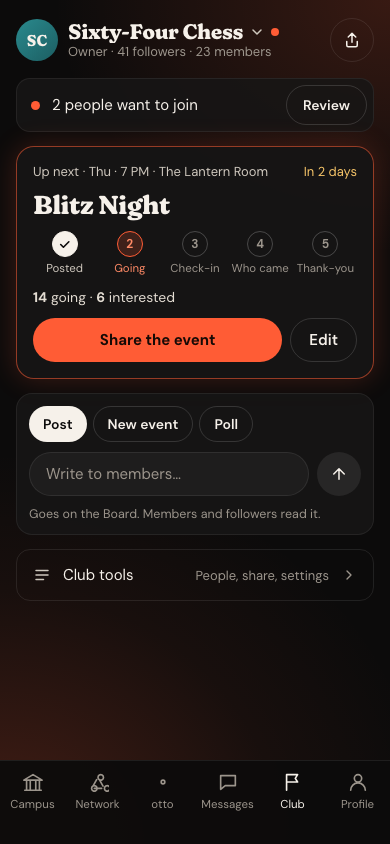
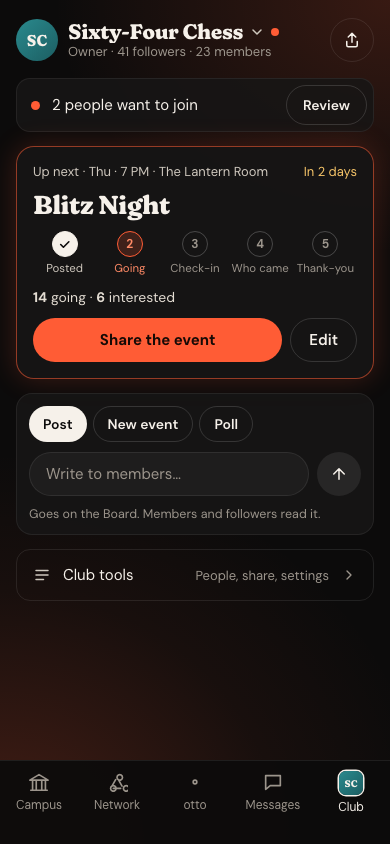
docs(handoff): club view round 2, no sixth tab, switch to your club on the Profile tab (Oct 20)
Franky: a Club tab crowds the phone's tab bar. The phone now switches to a
club from the Profile tab (tap your name or hold the tab), Instagram-style;
a row in Messages and a card on the profile are drawn for comparison.

diff --git a/handoffs/2026-10-20-club-view/project/R2_Entry_Others.dc.html b/handoffs/2026-10-20-club-view/project/R2_Entry_Others.dc.html
@@ -1,0 +1,97 @@
+<!doctype html>
+<html lang="en">
+<head>
+<meta charset="utf-8">
+<title>Round 2 · Two other ways in · phone</title>
+<script src="./support.js"></script>
+</head>
+<body>
+<x-dc>
+<helmet>
+<link rel="stylesheet" href="https://fonts.googleapis.com/css2?family=DM+Sans:ital,wght@0,300..800;1,400&amp;family=Fraunces:ital,wght,SOFT@0,400..900,100;1,400,100&amp;display=swap">
+<style>
+*,*::before,*::after{box-sizing:border-box;margin:0;padding:0}
+body{margin:0;font-family:"DM Sans",system-ui,sans-serif;-webkit-font-smoothing:antialiased;background:#0C0B0B}
+a{color:inherit;text-decoration:none}
+a:hover{color:inherit}
+svg{display:block}
+</style>
+</helmet>
+<div style="width: 960px; height: 1080px; position: relative; isolation: isolate; overflow: hidden; background: #0C0B0B; color: #F6F1EA; font-family: 'DM Sans', system-ui, sans-serif; padding: 56px; display: flex; flex-direction: column; gap: 28px">
+  <div aria-hidden="true" style="position: absolute; inset: 0; z-index: -1; pointer-events: none; background: radial-gradient(560px 420px at 100% 0%, rgba(255,92,53,0.14), transparent 60%)"></div>
+  <header style="display: flex; flex-direction: column; gap: 8px">
+    <div style="font-size: 12px; letter-spacing: 0.14em; text-transform: uppercase; color: #CFC8BE"><span style="color: #FF5C35">●</span> For comparison, not my pick</div>
+    <h1 style="font-family: Fraunces, serif; font-weight: 800; font-size: 40px; letter-spacing: -0.03em; line-height: 1.05">Two other ways in.</h1>
+  </header>
+
+  <div style="display: grid; grid-template-columns: repeat(2, minmax(0, 1fr)); gap: 48px; align-items: start">
+    <section style="display: flex; flex-direction: column; gap: 14px">
+      <h2 style="font-family: Fraunces, serif; font-weight: 800; font-size: 22px; letter-spacing: -0.02em">A row at the top of Messages</h2>
+      <div style="height: 700px; border-radius: 30px; border: 1px solid rgba(255,255,255,0.12); overflow: hidden; display: flex; flex-direction: column; background: #0C0B0B">
+        <div style="padding: 20px 16px 12px; display: flex; flex-direction: column; gap: 12px; flex: 1">
+          <div style="font-family: Fraunces, serif; font-weight: 800; font-size: 26px; letter-spacing: -0.02em">Messages</div>
+          <a href="#" style="min-height: 64px; border-radius: 16px; background: rgba(22,21,21,0.9); border: 1px solid rgba(255,92,53,0.45); padding: 10px 12px; display: flex; align-items: center; gap: 12px">
+            <span aria-hidden="true" style="width: 40px; height: 40px; border-radius: 10px; background: linear-gradient(135deg, #2A8A8E, #1C5E62); display: flex; align-items: center; justify-content: center; font-family: Fraunces, serif; font-weight: 800; font-size: 14px; flex-shrink: 0">SC</span>
+            <span style="flex: 1; display: flex; flex-direction: column"><span style="font-weight: 700; font-size: 15px">Run Sixty-Four Chess</span><span style="font-size: 13px; color: #FF8A66">2 want to join</span></span>
+            <svg width="16" height="16" viewBox="0 0 24 24" fill="none" stroke="#9C958C" stroke-width="2" stroke-linecap="round" stroke-linejoin="round" aria-hidden="true"><path d="M9 6l6 6-6 6"></path></svg>
+          </a>
+          <sc-for list="{{chats}}" as="c" hint-placeholder-count="5">
+            <div style="min-height: 60px; display: flex; align-items: center; gap: 12px; border-bottom: 1px solid rgba(255,255,255,0.06)">
+              <span aria-hidden="true" style="width: 44px; height: 44px; border-radius: 999px; background: {{c.color}}; display: flex; align-items: center; justify-content: center; font-family: Fraunces, serif; font-weight: 800; font-size: 14px; flex-shrink: 0">{{c.i}}</span>
+              <span style="flex: 1; min-width: 0; display: flex; flex-direction: column"><span style="font-weight: 600; font-size: 15px">{{c.name}}</span><span style="font-size: 13px; color: #9C958C; white-space: nowrap; overflow: hidden; text-overflow: ellipsis">{{c.last}}</span></span>
+            </div>
+          </sc-for>
+        </div>
+        <div aria-hidden="true" style="height: 64px; border-top: 1px solid rgba(255,255,255,0.08); display: grid; grid-template-columns: repeat(5, minmax(0, 1fr)); align-items: center; text-align: center; font-size: 11.5px; color: #9C958C">
+          <span>Campus</span><span>Network</span><span>otto</span><span style="color: #F6F1EA">Messages</span><span>Profile</span>
+        </div>
+      </div>
+      <p style="font-size: 15px; line-height: 1.5; color: #E4DDD3"><strong style="color: #6FDB9A">Good:</strong> officers are in Messages every day, and it’s one tap.</p>
+      <p style="font-size: 15px; line-height: 1.5; color: #E4DDD3"><strong style="color: #FF8A66">Costs:</strong> Messages gets busier, chats and tools mix, and two or three clubs mean two or three rows above your chats.</p>
+    </section>
+
+    <section style="display: flex; flex-direction: column; gap: 14px">
+      <h2 style="font-family: Fraunces, serif; font-weight: 800; font-size: 22px; letter-spacing: -0.02em">A card on your profile</h2>
+      <div style="height: 700px; border-radius: 30px; border: 1px solid rgba(255,255,255,0.12); overflow: hidden; display: flex; flex-direction: column; background: #0C0B0B">
+        <div style="height: 130px; background: linear-gradient(160deg, #6B5A4A 0%, #3A3029 55%, #1E1A17 100%); position: relative; flex-shrink: 0">
+          <span aria-hidden="true" style="position: absolute; left: 16px; bottom: -36px; width: 76px; height: 76px; border-radius: 20px; background: #E8B26A; border: 4px solid #0C0B0B; display: flex; align-items: center; justify-content: center; font-family: Fraunces, serif; font-weight: 900; font-size: 28px; color: #0C0B0B">PR</span>
+        </div>
+        <div style="padding: 48px 16px 12px; display: flex; flex-direction: column; gap: 12px; flex: 1">
+          <div style="font-family: Fraunces, serif; font-weight: 800; font-size: 26px; letter-spacing: -0.02em">Priya Raman</div>
+          <a href="#" style="min-height: 64px; border-radius: 16px; background: rgba(22,21,21,0.9); border: 1px solid rgba(255,92,53,0.45); padding: 10px 12px; display: flex; align-items: center; gap: 12px">
+            <span aria-hidden="true" style="width: 40px; height: 40px; border-radius: 10px; background: linear-gradient(135deg, #2A8A8E, #1C5E62); display: flex; align-items: center; justify-content: center; font-family: Fraunces, serif; font-weight: 800; font-size: 14px; flex-shrink: 0">SC</span>
+            <span style="flex: 1; display: flex; flex-direction: column"><span style="font-weight: 700; font-size: 15px">Run Sixty-Four Chess</span><span style="font-size: 13px; color: #FF8A66">2 want to join</span></span>
+            <svg width="16" height="16" viewBox="0 0 24 24" fill="none" stroke="#9C958C" stroke-width="2" stroke-linecap="round" stroke-linejoin="round" aria-hidden="true"><path d="M9 6l6 6-6 6"></path></svg>
+          </a>
+          <div style="border-radius: 16px; background: rgba(22,21,21,0.86); border: 1px solid rgba(255,255,255,0.07); padding: 14px 16px; display: flex; flex-direction: column; gap: 6px">
+            <div style="font-family: Fraunces, serif; font-weight: 800; font-size: 17px">Bio</div>
+            <div style="font-size: 15px; color: #E4DDD3">Chess, coffee, too many tabs open.</div>
+          </div>
+        </div>
+        <div aria-hidden="true" style="height: 64px; border-top: 1px solid rgba(255,255,255,0.08); display: grid; grid-template-columns: repeat(5, minmax(0, 1fr)); align-items: center; text-align: center; font-size: 11.5px; color: #9C958C">
+          <span>Campus</span><span>Network</span><span>otto</span><span>Messages</span><span style="color: #F6F1EA">Profile</span>
+        </div>
+      </div>
+      <p style="font-size: 15px; line-height: 1.5; color: #E4DDD3"><strong style="color: #6FDB9A">Good:</strong> the smallest build; it works the way Admin is reached today.</p>
+      <p style="font-size: 15px; line-height: 1.5; color: #E4DDD3"><strong style="color: #FF8A66">Costs:</strong> always two taps, even at the door on event night, and the club never feels like its own place.</p>
+    </section>
+  </div>
+</div>
+</x-dc>
+<script type="text/x-dc" data-dc-script data-props='{"$preview":{"width":960,"height":1080}}'>
+class Component extends DCLogic {
+  renderVals() {
+    return {
+      chats: [
+        { i: 'SC', name: 'Sixty-Four Chess', last: 'Theo: voted blitz, the clock stops me overthinking', color: 'linear-gradient(135deg, #2A8A8E, #1C5E62)' },
+        { i: 'MO', name: 'Maya Okafor', last: 'see you thursday', color: '#5A3A2E' },
+        { i: 'QH', name: 'Quiet Hours', last: 'Board: study room is booked till 2', color: 'linear-gradient(135deg, #3E6FA8, #26476E)' },
+        { i: 'LF', name: 'Leo Fischer', last: 'haha fair', color: '#4A4636' },
+        { i: 'EC', name: 'Elena Cruz', last: 'sent a photo', color: '#3B3550' }
+      ]
+    };
+  }
+}
+</script>
+</body>
+</html>

diff --git a/handoffs/2026-10-20-club-view/project/R2_Profile_Phone.dc.html b/handoffs/2026-10-20-club-view/project/R2_Profile_Phone.dc.html
@@ -1,0 +1,86 @@
+<!doctype html>
+<html lang="en">
+<head>
+<meta charset="utf-8">
+<title>Round 2 · Your profile, the way in · phone</title>
+<script src="./support.js"></script>
+</head>
+<body>
+<x-dc>
+<helmet>
+<link rel="stylesheet" href="https://fonts.googleapis.com/css2?family=DM+Sans:ital,wght@0,300..800;1,400&amp;family=Fraunces:ital,wght,SOFT@0,400..900,100;1,400,100&amp;display=swap">
+<style>
+*,*::before,*::after{box-sizing:border-box;margin:0;padding:0}
+body{margin:0;font-family:"DM Sans",system-ui,sans-serif;-webkit-font-smoothing:antialiased;background:#0C0B0B}
+button{font:inherit;color:inherit;background:transparent;border:0;cursor:pointer}
+a{color:inherit;text-decoration:none}
+a:hover{color:inherit}
+svg{display:block}
+</style>
+</helmet>
+<div style="width: 390px; height: 844px; position: relative; isolation: isolate; overflow: hidden; display: flex; flex-direction: column; background: #0C0B0B; color: #F6F1EA; font-family: 'DM Sans', system-ui, sans-serif">
+  <div style="position: relative; height: 170px; flex-shrink: 0; background: linear-gradient(160deg, #6B5A4A 0%, #3A3029 55%, #1E1A17 100%)">
+    <div style="position: absolute; right: 14px; top: 14px; display: flex; gap: 8px">
+      <button type="button" aria-label="Search" style="width: 44px; height: 44px; border-radius: 999px; background: rgba(12,11,11,0.45); display: flex; align-items: center; justify-content: center"><svg width="18" height="18" viewBox="0 0 24 24" fill="none" stroke="currentColor" stroke-width="2" stroke-linecap="round" aria-hidden="true"><circle cx="11" cy="11" r="6.5"></circle><path d="M16 16l4.5 4.5"></path></svg></button>
+      <button type="button" aria-label="Edit profile" style="width: 44px; height: 44px; border-radius: 999px; background: rgba(12,11,11,0.45); display: flex; align-items: center; justify-content: center"><svg width="17" height="17" viewBox="0 0 24 24" fill="none" stroke="currentColor" stroke-width="2" stroke-linecap="round" stroke-linejoin="round" aria-hidden="true"><path d="M4 20h4L19 9l-4-4L4 16v4z"></path></svg></button>
+    </div>
+    <div aria-hidden="true" style="position: absolute; left: 16px; bottom: -42px; width: 92px; height: 92px; border-radius: 24px; background: #E8B26A; border: 4px solid #0C0B0B; display: flex; align-items: center; justify-content: center; font-family: Fraunces, serif; font-weight: 900; font-size: 34px; color: #0C0B0B">PR</div>
+  </div>
+
+  <main style="flex: 1; display: flex; flex-direction: column; gap: 14px; padding: 54px 16px 0">
+    <div style="display: flex; flex-direction: column; gap: 4px; position: relative">
+      <button type="button" aria-haspopup="dialog" aria-label="Switch to one of your clubs" style="align-self: flex-start; min-height: 44px; display: flex; align-items: center; gap: 8px">
+        <span style="font-family: Fraunces, serif; font-weight: 800; font-size: 30px; letter-spacing: -0.03em; line-height: 1.05">Priya Raman</span>
+        <svg width="20" height="20" viewBox="0 0 24 24" fill="none" stroke="#CFC8BE" stroke-width="2.2" stroke-linecap="round" stroke-linejoin="round" aria-hidden="true"><path d="M6 9l6 6 6-6"></path></svg>
+        <span aria-hidden="true" style="width: 9px; height: 9px; border-radius: 999px; background: #FF5C35"></span>
+      </button>
+      <div style="font-size: 15px; color: #9C958C">@priya</div>
+    </div>
+
+    <div role="note" style="position: relative; align-self: flex-start; max-width: 300px; border-radius: 14px; background: #F6F1EA; color: #0C0B0B; padding: 12px 14px; display: flex; flex-direction: column; gap: 4px; box-shadow: 0 12px 30px rgba(0,0,0,0.45)">
+      <div aria-hidden="true" style="position: absolute; left: 28px; top: -7px; width: 14px; height: 14px; background: #F6F1EA; transform: rotate(45deg)"></div>
+      <div style="font-weight: 700; font-size: 14.5px">New: run your club from here.</div>
+      <div style="font-size: 13.5px; line-height: 1.4; color: #3A3632">Tap your name to switch to Sixty-Four Chess. Shown once.</div>
+    </div>
+
+    <div style="display: flex; gap: 8px; flex-wrap: wrap">
+      <span style="height: 36px; padding: 0 12px 0 6px; border-radius: 999px; border: 1px solid rgba(255,255,255,0.12); display: flex; align-items: center; gap: 8px; font-size: 14px"><span aria-hidden="true" style="width: 24px; height: 24px; border-radius: 999px; background: linear-gradient(135deg, #2A8A8E, #1C5E62); display: flex; align-items: center; justify-content: center; font-family: Fraunces, serif; font-weight: 800; font-size: 9.5px">SC</span>President · Sixty-Four Chess</span>
+      <span style="height: 36px; padding: 0 12px 0 6px; border-radius: 999px; border: 1px solid rgba(255,255,255,0.12); display: flex; align-items: center; gap: 8px; font-size: 14px"><span aria-hidden="true" style="width: 24px; height: 24px; border-radius: 999px; background: linear-gradient(135deg, #3E6FA8, #26476E); display: flex; align-items: center; justify-content: center; font-family: Fraunces, serif; font-weight: 800; font-size: 9.5px">QH</span>Quiet Hours</span>
+    </div>
+
+    <div style="border-radius: 16px; background: rgba(22,21,21,0.86); border: 1px solid rgba(255,255,255,0.07); padding: 14px 16px; display: flex; flex-direction: column; gap: 6px">
+      <div style="font-family: Fraunces, serif; font-weight: 800; font-size: 17px">Bio</div>
+      <div style="font-size: 15px; line-height: 1.45; color: #E4DDD3">Chess, coffee, too many tabs open.</div>
+    </div>
+  </main>
+
+  <nav aria-label="Tabs" style="flex-shrink: 0; height: 84px; border-top: 1px solid rgba(255,255,255,0.08); background: rgba(12,11,11,0.96); display: grid; grid-template-columns: repeat(5, minmax(0, 1fr)); padding-top: 10px">
+    <sc-for list="{{tabs}}" as="t" hint-placeholder-count="4">
+      <a href="#" style="display: flex; flex-direction: column; align-items: center; gap: 4px; font-size: 12px; color: #9C958C">
+        <svg width="22" height="22" viewBox="0 0 24 24" fill="none" stroke="currentColor" stroke-width="1.8" stroke-linecap="round" stroke-linejoin="round" aria-hidden="true"><path d="{{t.icon}}"></path></svg>
+        <span>{{t.label}}</span>
+      </a>
+    </sc-for>
+    <a href="#" aria-current="page" aria-label="Profile. Hold to switch to a club." style="display: flex; flex-direction: column; align-items: center; gap: 4px; font-size: 12px; color: #F6F1EA">
+      <span style="position: relative; width: 24px; height: 24px; border-radius: 999px; background: #E8B26A; color: #0C0B0B; display: flex; align-items: center; justify-content: center; font-size: 9.5px; font-weight: 800; box-shadow: 0 0 0 1.5px #F6F1EA">PR<span aria-hidden="true" style="position: absolute; right: -3px; top: -3px; width: 9px; height: 9px; border-radius: 999px; background: #FF5C35; border: 2px solid #0C0B0B"></span></span>
+      <span>Profile</span>
+    </a>
+  </nav>
+</div>
+</x-dc>
+<script type="text/x-dc" data-dc-script data-props='{"$preview":{"width":390,"height":844}}'>
+class Component extends DCLogic {
+  renderVals() {
+    return {
+      tabs: [
+        { label: 'Campus', icon: 'M3 21h18M5 21V10M19 21V10M9 21V10M15 21V10M2 10l10-6 10 6z' },
+        { label: 'Network', icon: 'M12 7a3 3 0 1 0 0-.01M5 19a3 3 0 1 0 0-.01M19 19a3 3 0 1 0 0-.01M10.5 9.5l-4 7M13.5 9.5l4 7M8 19h8' },
+        { label: 'otto', icon: 'M12 10a2 2 0 1 0 0 4 2 2 0 0 0 0-4z' },
+        { label: 'Messages', icon: 'M4 5h16v11H9l-5 4z' }
+      ]
+    };
+  }
+}
+</script>
+</body>
+</html>

diff --git a/handoffs/2026-10-20-club-view/project/R2_Switcher_Phone.dc.html b/handoffs/2026-10-20-club-view/project/R2_Switcher_Phone.dc.html
@@ -2,7 +2,7 @@
 <html lang="en">
 <head>
 <meta charset="utf-8">
-<title>Round 2 · Switch club · phone</title>
+<title>Round 2 · Switch between you and your clubs · phone</title>
 <script src="./support.js"></script>
 </head>
 <body>
@@ -21,8 +21,8 @@ svg{display:block}
 <div style="width: 390px; height: 844px; position: relative; isolation: isolate; overflow: hidden; background: #0C0B0B; color: #F6F1EA; font-family: 'DM Sans', system-ui, sans-serif">
   <div aria-hidden="true" style="position: absolute; inset: 0; pointer-events: none; background: radial-gradient(560px 420px at 100% 0%, rgba(255,92,53,0.18), transparent 60%)"></div>
   <div aria-hidden="true" style="position: absolute; left: 16px; right: 16px; top: 14px; display: flex; align-items: center; gap: 10px; opacity: 0.45">
-    <div style="width: 42px; height: 42px; border-radius: 999px; background: linear-gradient(135deg, #2A8A8E, #1C5E62)"></div>
-    <div style="font-family: Fraunces, serif; font-weight: 800; font-size: 21px">Sixty-Four Chess</div>
+    <div style="width: 42px; height: 42px; border-radius: 12px; background: #E8B26A"></div>
+    <div style="font-family: Fraunces, serif; font-weight: 800; font-size: 21px">Priya Raman</div>
   </div>
   <div aria-hidden="true" style="position: absolute; left: 16px; right: 16px; top: 82px; height: 56px; border-radius: 14px; background: rgba(22,21,21,0.86); opacity: 0.45"></div>
   <div aria-hidden="true" style="position: absolute; left: 16px; right: 16px; top: 152px; height: 230px; border-radius: 18px; border: 1px solid rgba(255,92,53,0.4); opacity: 0.45"></div>
@@ -31,15 +31,16 @@ svg{display:block}
   <section role="dialog" aria-label="Your clubs" style="position: absolute; left: 0; right: 0; bottom: 0; border-radius: 24px 24px 0 0; background: #161515; border-top: 1px solid rgba(255,255,255,0.08); padding: 10px 16px 28px; display: flex; flex-direction: column; gap: 14px">
     <div aria-hidden="true" style="width: 40px; height: 5px; border-radius: 999px; background: rgba(255,255,255,0.18); align-self: center"></div>
     <div style="display: flex; align-items: center; justify-content: space-between">
-      <h2 style="font-family: Fraunces, serif; font-weight: 800; font-size: 24px; letter-spacing: -0.02em">Clubs you run.</h2>
+      <h2 style="font-family: Fraunces, serif; font-weight: 800; font-size: 24px; letter-spacing: -0.02em">Switch to.</h2>
       <button type="button" aria-label="Close" style="width: 44px; height: 44px; border-radius: 999px; border: 1px solid rgba(255,255,255,0.10); display: flex; align-items: center; justify-content: center"><svg width="16" height="16" viewBox="0 0 24 24" fill="none" stroke="currentColor" stroke-width="2.2" stroke-linecap="round" aria-hidden="true"><path d="M6 6l12 12M18 6L6 18"></path></svg></button>
     </div>
 
     <ul style="list-style: none; display: flex; flex-direction: column; gap: 8px">
       <sc-for list="{{clubs}}" as="c" hint-placeholder-count="3">
-        <li>
+        <li style="display: flex; flex-direction: column; gap: 8px">
+          <sc-if value="{{c.group}}" hint-placeholder-val="{{false}}"><div style="font-size: 11px; font-weight: 700; letter-spacing: 0.14em; text-transform: uppercase; color: #9C958C; padding: 6px 2px 0">Clubs you run</div></sc-if>
           <a href="#" aria-current="{{c.current}}" style="min-height: 68px; border-radius: 16px; padding: 10px 14px; display: flex; align-items: center; gap: 12px; background: {{c.bg}}; border: 1px solid {{c.border}}">
-            <span aria-hidden="true" style="width: 44px; height: 44px; border-radius: 999px; background: {{c.color}}; display: flex; align-items: center; justify-content: center; font-family: Fraunces, serif; font-weight: 800; font-size: 15px; color: #F6F1EA; flex-shrink: 0">{{c.initials}}</span>
+            <span aria-hidden="true" style="width: 44px; height: 44px; border-radius: 999px; background: {{c.color}}; display: flex; align-items: center; justify-content: center; font-family: Fraunces, serif; font-weight: 800; font-size: 15px; color: {{c.avatarInk}}; flex-shrink: 0">{{c.initials}}</span>
             <span style="flex: 1; min-width: 0; display: flex; flex-direction: column">
               <span style="font-family: Fraunces, serif; font-weight: 800; font-size: 18px; letter-spacing: -0.02em; line-height: 1.2">{{c.name}}</span>
               <span style="font-size: 13px; color: #9C958C">{{c.role}}</span>
@@ -50,7 +51,7 @@ svg{display:block}
       </sc-for>
     </ul>
 
-    <p style="font-size: 13.5px; line-height: 1.45; color: #9C958C">Only clubs where you’re an officer show here. Clubs you’re a member of stay in Messages and on your profile.</p>
+    <p style="font-size: 13.5px; line-height: 1.45; color: #9C958C">Only the Profile tab changes: it shows the club you picked until you switch back. Chats and Board posts still show your own name and title. Hold the Profile tab to get here fast.</p>
 
     <a href="#" style="min-height: 52px; border-radius: 14px; border: 1px dashed rgba(255,255,255,0.18); display: flex; align-items: center; justify-content: center; gap: 8px; font-size: 15px; font-weight: 600">
       <svg width="16" height="16" viewBox="0 0 24 24" fill="none" stroke="currentColor" stroke-width="2.2" stroke-linecap="round" aria-hidden="true"><path d="M12 5v14M5 12h14"></path></svg>
@@ -64,9 +65,10 @@ class Component extends DCLogic {
   renderVals() {
     return {
       clubs: [
-        { name: 'Sixty-Four Chess', initials: 'SC', role: 'Owner · president', needs: '2 to review', needsInk: '#FF8A66', color: 'linear-gradient(135deg, #2A8A8E, #1C5E62)', bg: 'rgba(255,255,255,0.06)', border: 'rgba(255,255,255,0.14)', current: 'true' },
-        { name: 'Quiet Hours', initials: 'QH', role: 'Mod · social chair', needs: 'Check-in tonight', needsInk: '#F6C468', color: 'linear-gradient(135deg, #3E6FA8, #26476E)', bg: 'transparent', border: 'rgba(255,255,255,0.08)', current: 'false' },
-        { name: 'Compound Interest', initials: 'CI', role: 'Admin · treasurer', needs: '', needsInk: '#9C958C', color: 'linear-gradient(135deg, #8A6A2A, #5C4519)', bg: 'transparent', border: 'rgba(255,255,255,0.08)', current: 'false' }
+        { name: 'Priya Raman', initials: 'PR', role: 'You', needs: 'Now', needsInk: '#CFC8BE', color: '#E8B26A', avatarInk: '#0C0B0B', bg: 'rgba(255,255,255,0.06)', border: 'rgba(255,255,255,0.14)', current: 'true', group: false },
+        { name: 'Sixty-Four Chess', initials: 'SC', role: 'Owner · president', needs: '2 to review', needsInk: '#FF8A66', color: 'linear-gradient(135deg, #2A8A8E, #1C5E62)', avatarInk: '#F6F1EA', bg: 'transparent', border: 'rgba(255,255,255,0.08)', current: 'false', group: true },
+        { name: 'Quiet Hours', initials: 'QH', role: 'Mod · social chair', needs: 'Check-in tonight', needsInk: '#F6C468', color: 'linear-gradient(135deg, #3E6FA8, #26476E)', avatarInk: '#F6F1EA', bg: 'transparent', border: 'rgba(255,255,255,0.08)', current: 'false', group: false },
+        { name: 'Compound Interest', initials: 'CI', role: 'Admin · treasurer', needs: '', needsInk: '#9C958C', color: 'linear-gradient(135deg, #8A6A2A, #5C4519)', avatarInk: '#F6F1EA', bg: 'transparent', border: 'rgba(255,255,255,0.08)', current: 'false', group: false }
       ]
     };
   }

diff --git a/handoffs/2026-10-20-club-view/project/R2_Main.dc.html b/handoffs/2026-10-20-club-view/project/R2_Main.dc.html
@@ -16,7 +16,7 @@ a{color:inherit;text-decoration:none}
 a:hover{color:inherit}
 </style>
 </helmet>
-<div style="min-height: 1560px; position: relative; isolation: isolate; background: #0C0B0B; color: #F6F1EA; font-family: 'DM Sans', system-ui, sans-serif; padding: 64px 24px 72px">
+<div style="min-height: 1600px; position: relative; isolation: isolate; background: #0C0B0B; color: #F6F1EA; font-family: 'DM Sans', system-ui, sans-serif; padding: 64px 24px 72px">
   <div aria-hidden="true" style="position: absolute; inset: 0; z-index: -1; pointer-events: none; background: radial-gradient(900px 760px at 0% 0%, rgba(255,92,53,0.28), rgba(255,92,53,0.06) 45%, transparent 70%)"></div>
   <div style="max-width: 1120px; margin: 0 auto; display: flex; flex-direction: column; gap: 44px">
     <header style="display: flex; flex-direction: column; gap: 14px; max-width: 900px">
@@ -62,21 +62,21 @@ a:hover{color:inherit}
   </div>
 </div>
 </x-dc>
-<script type="text/x-dc" data-dc-script data-props='{"$preview":{"width":1440,"height":1560}}'>
+<script type="text/x-dc" data-dc-script data-props='{"$preview":{"width":1440,"height":1600}}'>
 class Component extends DCLogic {
   renderVals() {
     return {
       answers: [
-        { q: 'Your idea: an owner tab', t: 'A Club tab only officers see.', lines: ['Phone: a sixth tab, Club, that appears only if you run a club. Everyone else keeps five.', 'Desktop: “Clubs you run” in the left nav, built like the Admin link.', 'Admin stays as it is, for founders. A founder who runs a club sees both.'] },
+        { q: 'Your idea: an owner tab', t: 'Switch to your club on the Profile tab.', lines: ['No sixth tab: the bar stays at five. Tap your name on your profile, or hold the Profile tab, and pick your club.', 'The tab then shows the club’s picture and opens its home until you switch back, like switching to a club’s Instagram account.', 'Desktop has room: “Clubs you run” in the left nav, next to Admin, which stays founders-only.'] },
         { q: 'A lot going on', t: 'Three things on its first screen.', lines: ['Needs you: only when something does (join requests, an unfinished setup).', 'Up next: one card from posted to thank-you, with the next thing to do as its button.', 'Write to members: Post, New event or Poll, onto the Board. Everything else is in Club tools.'] },
-        { q: 'Part of several clubs?', t: 'A switcher, and a dot where you’re needed.', lines: ['Phone: tap the club’s name at the top to switch. A dot says another club needs you.', 'Desktop: each club you run is its own line in the nav.', 'Only clubs where you’re an officer. Clubs you just belong to stay in Messages and on your profile.'] },
+        { q: 'Part of several clubs?', t: 'A switcher, and a dot where you’re needed.', lines: ['Phone: the same switcher lists you first, then each club you run, with what needs you. A dot on the Profile tab says one does.', 'Desktop: each club you run is its own line in the nav.', 'Only clubs where you’re an officer. Clubs you just belong to stay in Messages and on your profile.'] },
         { q: 'Club emails?', t: 'People sign in as themselves.', lines: ['No shared club login: when officers graduate, a shared password leaves with them.', 'The club’s email is optional: it can prove the club is real and get it back if its owner disappears.', 'For the first 20, you make a one-time setup link in Admin › Clubs and hand it over in person.'] }
       ],
       calls: [
-        { n: '1', q: 'A Club tab that only officers see?', rec: 'yes: a sixth tab on the phone, “Clubs you run” on desktop. Admin stays founders-only.' },
+        { n: '1', q: 'The club on the phone: switch on the Profile tab, with no sixth tab?', rec: 'yes. Students already switch to their club’s Instagram account this way. The two other ways (a row in Messages, a card on your profile) are drawn beside it for comparison.' },
         { n: '2', q: 'A one-time setup link from Admin › Clubs for the first 20?', rec: 'yes. It marks the club as checked, lets the president past the waitlist, and makes them the owner.' },
         { n: '3', q: 'Club emails?', rec: 'never a login. Optional, for checking a club that set itself up and for getting a club back.' },
-        { n: '4', q: 'Do mods see the Club tab?', rec: 'yes, with only the tools their role allows. Members never see it.' }
+        { n: '4', q: 'Can mods switch to the club?', rec: 'yes, with only the tools their role allows. Members never see the switch.' }
       ]
     };
   }

diff --git a/handoffs/2026-10-20-club-view/project/R2_Club_Phone.dc.html b/handoffs/2026-10-20-club-view/project/R2_Club_Phone.dc.html
@@ -2,7 +2,7 @@
 <html lang="en">
 <head>
 <meta charset="utf-8">
-<title>Round 2 · Your club · phone</title>
+<title>Round 2 · The club, switched in · phone</title>
 <script src="./support.js"></script>
 </head>
 <body>
@@ -88,13 +88,17 @@ input::placeholder{color:#9C958C;opacity:1}
     </a>
   </main>
 
-  <nav aria-label="Tabs" style="flex-shrink: 0; height: 84px; border-top: 1px solid rgba(255,255,255,0.08); background: rgba(12,11,11,0.96); display: grid; grid-template-columns: repeat(6, minmax(0, 1fr)); padding-top: 10px">
-    <sc-for list="{{tabs}}" as="t" hint-placeholder-count="6">
-      <a href="#" style="display: flex; flex-direction: column; align-items: center; gap: 4px; font-size: 11.5px; color: {{t.color}}">
+  <nav aria-label="Tabs" style="flex-shrink: 0; height: 84px; border-top: 1px solid rgba(255,255,255,0.08); background: rgba(12,11,11,0.96); display: grid; grid-template-columns: repeat(5, minmax(0, 1fr)); padding-top: 10px">
+    <sc-for list="{{tabs}}" as="t" hint-placeholder-count="4">
+      <a href="#" style="display: flex; flex-direction: column; align-items: center; gap: 4px; font-size: 12px; color: #9C958C">
         <svg width="22" height="22" viewBox="0 0 24 24" fill="none" stroke="currentColor" stroke-width="1.8" stroke-linecap="round" stroke-linejoin="round" aria-hidden="true"><path d="{{t.icon}}"></path></svg>
         <span>{{t.label}}</span>
       </a>
     </sc-for>
+    <a href="#" aria-current="page" aria-label="Sixty-Four Chess. Hold to switch back to you." style="display: flex; flex-direction: column; align-items: center; gap: 4px; font-size: 12px; color: #F6F1EA">
+      <span style="width: 24px; height: 24px; border-radius: 7px; background: linear-gradient(135deg, #2A8A8E, #1C5E62); color: #F6F1EA; display: flex; align-items: center; justify-content: center; font-family: Fraunces, serif; font-size: 9.5px; font-weight: 800; box-shadow: 0 0 0 1.5px #F6F1EA">SC</span>
+      <span>Club</span>
+    </a>
   </nav>
 </div>
 </x-dc>
@@ -111,12 +115,10 @@ class Component extends DCLogic {
     return {
       steps,
       tabs: [
-        { label: 'Campus', color: '#9C958C', icon: 'M3 21h18M5 21V10M19 21V10M9 21V10M15 21V10M2 10l10-6 10 6z' },
-        { label: 'Network', color: '#9C958C', icon: 'M12 7a3 3 0 1 0 0-.01M5 19a3 3 0 1 0 0-.01M19 19a3 3 0 1 0 0-.01M10.5 9.5l-4 7M13.5 9.5l4 7M8 19h8' },
-        { label: 'otto', color: '#9C958C', icon: 'M12 10a2 2 0 1 0 0 4 2 2 0 0 0 0-4z' },
-        { label: 'Messages', color: '#9C958C', icon: 'M4 5h16v11H9l-5 4z' },
-        { label: 'Club', color: '#F6F1EA', icon: 'M5 21V4M5 4h12l-2.5 4L17 12H5' },
-        { label: 'Profile', color: '#9C958C', icon: 'M12 12a4 4 0 1 0 0-8 4 4 0 0 0 0 8zM4 21a8 8 0 0 1 16 0' }
+        { label: 'Campus', icon: 'M3 21h18M5 21V10M19 21V10M9 21V10M15 21V10M2 10l10-6 10 6z' },
+        { label: 'Network', icon: 'M12 7a3 3 0 1 0 0-.01M5 19a3 3 0 1 0 0-.01M19 19a3 3 0 1 0 0-.01M10.5 9.5l-4 7M13.5 9.5l4 7M8 19h8' },
+        { label: 'otto', icon: 'M12 10a2 2 0 1 0 0 4 2 2 0 0 0 0-4z' },
+        { label: 'Messages', icon: 'M4 5h16v11H9l-5 4z' }
       ]
     };
   }

diff --git a/handoffs/2026-10-20-club-view/project/R2_Setup.dc.html b/handoffs/2026-10-20-club-view/project/R2_Setup.dc.html
@@ -95,7 +95,7 @@ input::placeholder{color:#9C958C;opacity:1}
   <div style="display: grid; grid-template-columns: repeat(2, minmax(0, 1fr)); gap: 24px">
     <section style="border-radius: 18px; background: rgba(22,21,21,0.86); border: 1px solid rgba(255,255,255,0.07); padding: 20px 22px; display: flex; flex-direction: column; gap: 8px">
       <h2 style="font-family: Fraunces, serif; font-weight: 800; font-size: 21px; letter-spacing: -0.02em">Later, a club on its own.</h2>
-      <p style="font-size: 15px; line-height: 1.5; color: #E4DDD3">Club › Start a club, on the phone or a laptop: name, photo, one line. Then “Get checked”: a code goes to the club’s email, or they ask Vibe. Until then the page is live, but events and invites wait, and the setup list says why.</p>
+      <p style="font-size: 15px; line-height: 1.5; color: #E4DDD3">Profile › your name › Start a club, on the phone or a laptop: name, photo, one line. Then “Get checked”: a code goes to the club’s email, or they ask Vibe. Until then the page is live, but events and invites wait, and the setup list says why.</p>
     </section>
     <section style="border-radius: 18px; background: rgba(22,21,21,0.86); border: 1px solid rgba(255,92,53,0.35); padding: 20px 22px; display: flex; flex-direction: column; gap: 8px">
       <h2 style="font-family: Fraunces, serif; font-weight: 800; font-size: 21px; letter-spacing: -0.02em">Why not sign in with the club’s email?</h2>

diff --git a/handoffs/2026-10-20-club-view/README.md b/handoffs/2026-10-20-club-view/README.md
@@ -10,9 +10,9 @@ see and do in Vibe, phone and desktop. Board first, no building; Franky picks.
 
 ## Round 2 (Oct 20, after Franky's notes: "a lot going on", club emails, an owner tab, several clubs)
 The canvas opens on Round 2 (`R2_*` boards); Round 1 is its own page.
-- A **Club tab only officers see**: a sixth phone tab; "Clubs you run" in the desktop nav, next to Admin (Admin stays founders-only).
+- **The club on the phone (revised the same evening: a sixth tab crowded the bar):** no new tab. Tap your name on your profile, or hold the Profile tab, and switch to a club, like switching to a club's Instagram account; the Profile tab then shows the club's picture and opens its home until you switch back. A row in Messages and a card on the profile are drawn for comparison (`R2_Entry_Others`). Desktop: "Clubs you run" in the left nav, next to Admin (Admin stays founders-only).
 - Its first screen has three things: Needs you, Up next (one card from posted to thank-you), Write to members. Everything else is in Club tools.
-- **Several clubs:** a switcher on the club name (phone), one nav line per club (desktop), a dot where you're needed; only clubs where you're an officer.
+- **Several clubs:** the same switcher lists you first, then each club you run (phone); one nav line per club (desktop); a dot where you're needed; only clubs where you're an officer.
 - **Setup:** people sign in as themselves, never with a shared club login; the club's email is optional (proof and recovery). The first 20 get a one-time setup link from Admin › Clubs, handed over in person (checks the club, gets the president past the waitlist, makes them owner).
 - Four calls on `R2_Main`, each with a recommendation; Round 1's other calls still stand.
 
